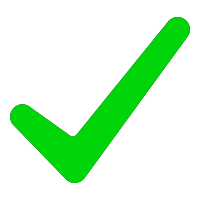
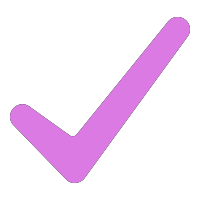
Changed tick colour + some extra formatting

Changed region(s): [[0.03, 0.06, 0.96, 0.93]]

diff --git a/web_based_prototype/js/scriptEvent.js b/web_based_prototype/js/scriptEvent.js
@@ -86,6 +86,7 @@ $(document).on('click', '#displayTag img', function(){
 	$('.tagButton').css('border','');
 	$('.tagButton').css('border-radius','');
 	
+	$('#event-container').empty();
 	displayEvents(eventsArray);
 })
 $(document).on('click', '.tagButton', function(){

diff --git a/web_based_prototype/css/stylesheet.css b/web_based_prototype/css/stylesheet.css
@@ -502,7 +502,6 @@ select{
 
 #content{
 	margin: auto;
-    width: 90%;
 }
 
 #next a{
@@ -609,4 +608,8 @@ select{
 }
 .mapButton{
 	display:none;
+}
+.dayBreak{
+	text-align:center;
+	font-size:0.8em;
 }

diff --git a/web_based_prototype/css/stylesheetHome.css b/web_based_prototype/css/stylesheetHome.css
@@ -78,3 +78,7 @@
 	color:white;
 	background-color:#834088;
 }
+#date{
+	text-align:center;
+	font-size:0.8em;
+}
